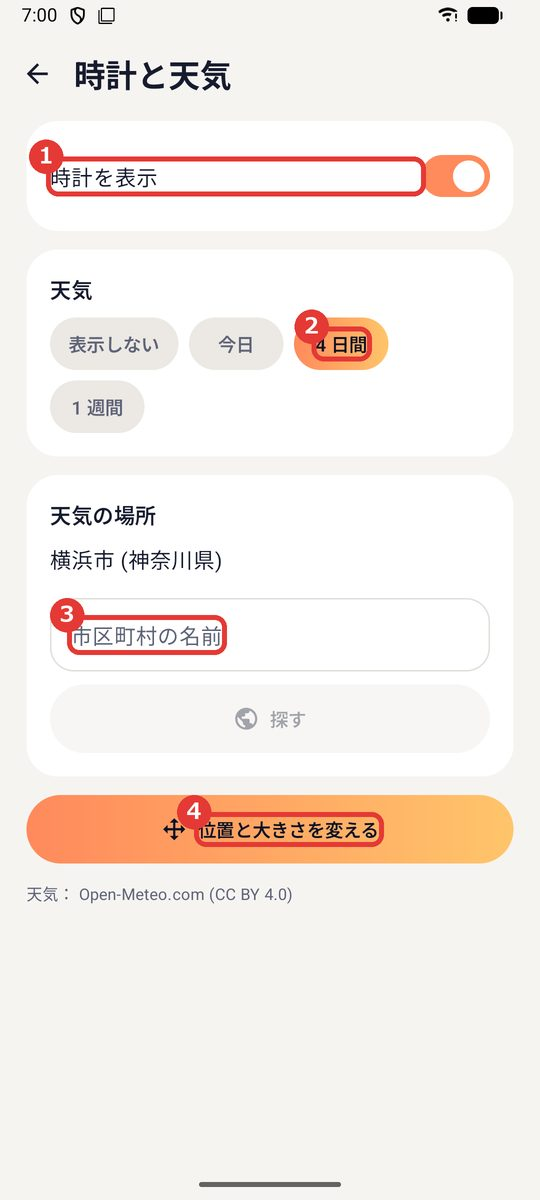
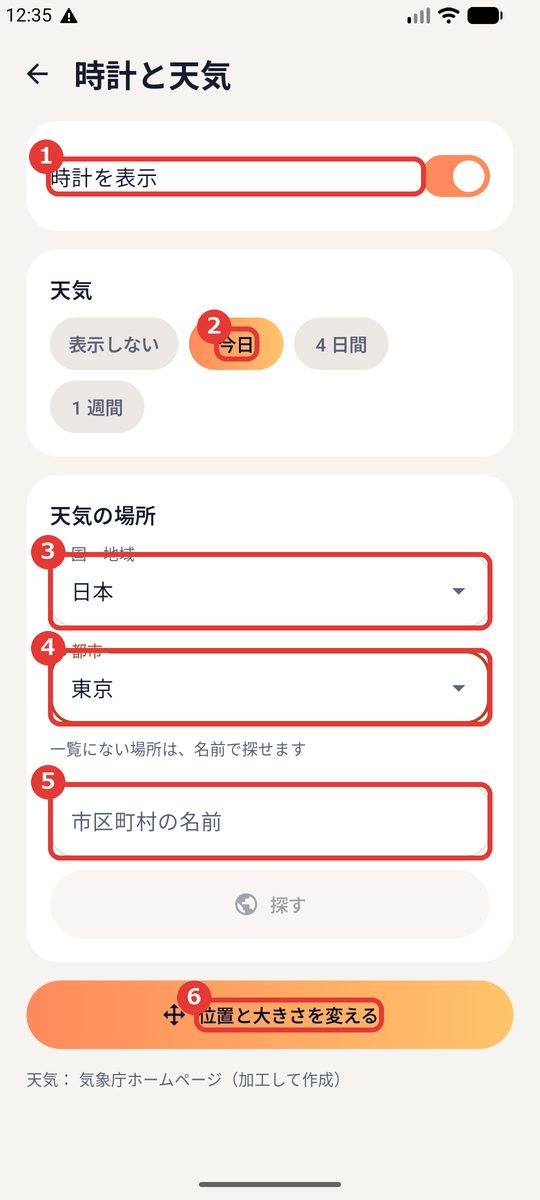
おはようニュースタイマー：天気の場所のプルダウンと世界の局を使い方・紹介に書く
- 使い方の「時計と天気」：国・地域と都市のプルダウン、名前で探す、気象庁と MET Norway の使い分けを書き、画像を撮り直す（都市の一覧の画像も足す）
- 使い方の「情報源」「URL を追加する」：最初からある世界の局と、YouTube のチャンネルの URL でライブを開くことを書く
- 紹介ページ（日本語・英語）の機能の説明を直す

diff --git a/morning-news/manual.html b/morning-news/manual.html
@@ -11,7 +11,7 @@
 <p><a href="./">おはようニュースタイマー の紹介ページへ戻る</a></p>
 <h1>おはようニュースタイマー の使い方</h1>
 <p>おはようニュースタイマー（Good Morning News Timer）は、決めた時刻にニュースの再生を自動で始めるアプリです。</p>
-<p class="note">この説明は バージョン 1.1.0 の画面に合わせています（2026年11月27日。再生を止めたあとの画面と広告を追加。1.0.0 にはありません。標準の再生速度・ダークモード・横向きのボタンは、次の版 1.2.0 から）。画面はこれから変わることがあります。画像の赤い枠と番号は、説明の番号と同じところです。</p>
+<p class="note">この説明は バージョン 1.1.0 の画面に合わせています（2026年11月27日。再生を止めたあとの画面と広告を追加。1.0.0 にはありません。標準の再生速度・ダークモード・横向きのボタン・天気の場所のプルダウン・世界の局は、次の版 1.2.0 から）。画面はこれから変わることがあります。画像の赤い枠と番号は、説明の番号と同じところです。</p>
 
 <ol class="toc">
 <li><a href="#start">はじめに（許可）</a></li>
@@ -117,6 +117,7 @@
 <li><strong>▶</strong>：その情報源を試します</li>
 </ol>
 <p>自分で足したものは、押すと直したり消したりできます。最初からあるものは直せません。</p>
+<p>最初から、日本の局（日テレNEWS NNN・TBS NEWS DIG・ANNnewsCH など）と、世界の局の YouTube のライブ（NHK WORLD-JAPAN・Al Jazeera English・DW News・Sky News・euronews・ABC News Australia）が入っています。新しい予定では、日本語の画面なら日本の局、ほかの言語なら世界の局を最初から選んでおきます。</p>
 
 <h2 id="url">6. URL を追加する</h2>
 <img class="shot" src="images/manual/url.jpg" width="540" height="1200" loading="lazy" alt="URL を追加する画面">
@@ -125,6 +126,10 @@
 <li><strong>「URL」</strong>：ニュースのページ、YouTube、動画・音声（m3u8・mp4・mp3 など）の URL を入れます</li>
 <li><strong>「保存」</strong>を押します。予定で使うには、予定の編集で選びます</li>
 </ol>
+<ul>
+<li>YouTube のチャンネルのページ（<code>https://www.youtube.com/@BBCNews</code> など）の URL を入れると、そのチャンネルのライブ（<code>…/live</code>）を開きます。世界の局のライブも、チャンネルの URL を貼るだけで使えます</li>
+<li>動画 1 本（<code>watch?v=…</code>）や再生リストの URL は、YouTube の公式プレーヤーで再生します</li>
+</ul>
 <div class="tip">ページによっては、自動で再生が始まらないことがあります。▶ で試してから予定に使ってください。ログインが必要なページには向きません。</div>
 
 <h2 id="nas">7. NAS を追加する</h2>
@@ -194,13 +199,20 @@
 
 <h2 id="display">9. 時計と天気</h2>
 <p>再生の画面に、時計と天気予報を重ねて出せます。「設定」の「時計と天気」を押します。</p>
-<img class="shot" src="images/manual/display.jpg" width="540" height="1200" loading="lazy" alt="時計と天気の設定">
+<img class="shot" src="images/manual/display.jpg" width="540" height="1200" loading="lazy" alt="時計と天気の設定と、天気の場所のプルダウン">
 <ol>
 <li><strong>「時計を表示」</strong>：時刻と日付を出します</li>
 <li><strong>「天気」</strong>：「表示しない」「今日」「4 日間」「1 週間」から選びます</li>
-<li><strong>「市区町村の名前」</strong>を入れて<strong>「探す」</strong>を押し、出てきた中から天気の場所を選びます。選ぶまで天気は出ません</li>
+<li><strong>「国・地域」</strong>：天気の場所の国を選びます。端末の国と日本が一覧の先頭にあります</li>
+<li><strong>「都市」</strong>：その国の主な都市から選びます（下の画像）。選ぶまで天気は出ません</li>
+<li><strong>「市区町村の名前」</strong>：一覧にない場所は、名前を入れて<strong>「探す」</strong>を押し、出てきた中から選びます</li>
 <li><strong>「位置と大きさを変える」</strong>：下の画面を開きます</li>
 </ol>
+<img class="shot" src="images/manual/place-city.jpg" width="540" height="1200" loading="lazy" alt="都市のプルダウンを開いたところ">
+<ul>
+<li>日本の場所は気象庁、それ以外の国は MET Norway（ノルウェー気象局）の予報を出します。画面の下に、どちらを使っているかが出ます</li>
+<li>日本は北から順に 61 の都市、ほかの国は 53 の国と地域の主な都市があります</li>
+</ul>
 <h3>位置と大きさを変える</h3>
 <p>設定の「位置と大きさを変える」のほか、再生の画面の矢印が 4 つのボタンからも開けます。再生の画面からなら、映像を見ながら合わせられます。</p>
 <img class="shot" src="images/manual/layout.jpg" width="540" height="1200" loading="lazy" alt="位置と大きさを変えているところ">

diff --git a/morning-news/index.html b/morning-news/index.html
@@ -25,11 +25,11 @@
 <h2>できること</h2>
 <ul>
 <li><strong>自動再生：</strong>時刻と曜日を決めておくと、画面が消えていても点けて再生を始めます。予定は複数作れます</li>
-<li><strong>情報源：</strong>各局の公式ページや公式 YouTube を、試す順に並べられます。再生できないときは次の情報源に進み、どれもだめならアラームを鳴らします</li>
-<li><strong>URL の追加：</strong>ニュースのページ、YouTube、動画・音声（m3u8・mp4・mp3 など）の URL を登録できます</li>
+<li><strong>情報源：</strong>日本の局と世界の局（Al Jazeera・DW・Sky News など）の公式ページや公式 YouTube を、試す順に並べられます。再生できないときは次の情報源に進み、どれもだめならアラームを鳴らします</li>
+<li><strong>URL の追加：</strong>ニュースのページ、YouTube（チャンネルの URL ならライブを開きます）、動画・音声（m3u8・mp4・mp3 など）の URL を登録できます</li>
 <li><strong>NAS：</strong>フォルダをたどって選ぶと、その中のいちばん新しい動画・音声を再生します（SMB 2 / 3）</li>
 <li><strong>DLNA：</strong>同じネットワークの DLNA サーバーのフォルダを選ぶと、その中のいちばん新しい動画・音声を再生します（著作権保護された録画は再生できません）</li>
-<li><strong>時計と天気：</strong>再生の画面に、時計と天気予報（今日・4 日間・1 週間）を重ねて表示。位置と大きさを自由に変えられます</li>
+<li><strong>時計と天気：</strong>再生の画面に、時計と天気予報（今日・4 日間・1 週間。日本は気象庁、世界の都市は MET Norway）を重ねて表示。場所は国と都市のプルダウンで選べます。位置と大きさを自由に変えられます</li>
 <li><strong>再生速度とダークモード：</strong>標準の再生速度（0.75×〜2×）と、画面の明るい・暗いを設定で選べます。横向きでは、ボタンだけを映像に重ね、好きな場所に動かせます</li>
 <li><strong>音量と自動停止：</strong>予定ごとに音量を決められ、終わると元の音量に戻します。決めた時間で自動で止められます</li>
 <li>縦・横の画面、12 言語に対応</li>
@@ -66,11 +66,11 @@
 <h2>Features</h2>
 <ul>
 <li><strong>Automatic playback:</strong> set times and days, and playback starts even when the screen is off. You can make several schedules</li>
-<li><strong>Sources:</strong> put official news pages and YouTube channels in the order to try. If one can't play, the next is used, and if none can, an alarm sounds</li>
-<li><strong>Add URLs:</strong> news pages, YouTube, or audio/video (m3u8, mp4, mp3…)</li>
+<li><strong>Sources:</strong> put official news pages and YouTube channels from Japan and around the world (Al Jazeera, DW, Sky News and more) in the order to try. If one can't play, the next is used, and if none can, an alarm sounds</li>
+<li><strong>Add URLs:</strong> news pages, YouTube (a channel URL opens its live stream), or audio/video (m3u8, mp4, mp3…)</li>
 <li><strong>NAS:</strong> browse to a folder, and the app plays its newest audio or video file (SMB 2 / 3)</li>
 <li><strong>DLNA:</strong> choose a folder on a DLNA server on your network, and the app plays its newest audio or video (copy-protected recordings can't be played)</li>
-<li><strong>Clock and weather:</strong> show a clock and a forecast (today, 4 days or 1 week) over playback, with adjustable position and size</li>
+<li><strong>Clock and weather:</strong> show a clock and a forecast (today, 4 days or 1 week; cities worldwide, picked from country and city lists) over playback, with adjustable position and size</li>
 <li><strong>Playback speed and dark mode:</strong> choose a default speed (0.75× to 2×) and a light or dark look. In landscape, only the buttons appear over the video, and you can move them</li>
 <li><strong>Volume and automatic stop:</strong> set for each schedule. The volume is restored afterward</li>
 <li>Portrait and landscape, 12 languages</li>
